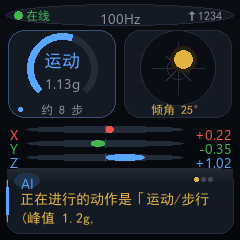
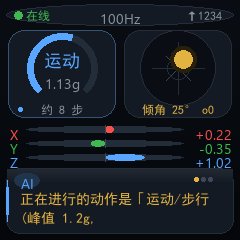
feat(device): 界面显示方向档位 oN，标定不再需要串口
真机标定 IMU 方向时卡住的原因：档位 oN 只能在串口日志里看到，屏幕上没有。
于是「长按 BOOT 循环换档直到方向正确」这件事必须先插电脑开串口，
用户按了也分不清自己在哪一档。

改法：倾角小字里带上档位（`倾角 29° o4`）。于是标定变成纯屏上操作：
平放 → 向右倾 → 看屏幕是否写「向右倾斜」→ 不对就长按换档 → 对了就停。
板端自己会算方向词，所以不依赖服务器。

顺带修 ui_preview.py 的一个真缺陷：它把倾角文案在 Python 里**重新实现**了一遍
（没读 ui.c），所以代码改了预览图不变——而它的注释还写着「不会出现代码改了
预览图还是旧的这种失真」。已把 oN 补上，并把那句过强的说明改成如实描述
（几何/配色确实从 ui.c 解析，文案是镜像的、必须同步改）。

顺带订正标定指南两处文档缺陷：
- P4 原文写「倒立，底边朝下」，可这与「顶边朝上」是同一个姿势、期望值却相反，
  自相矛盾；应为「顶边朝下」。
- P5/P6 的期望值按加速度计物理推算应互换（已标注待实测）。
- 记录 2026-09-23 真机标定的进展与未完成项（o0 与 o1 只差传感器焊在正面还是背面）。

Changed region(s): [[0.5833, 0.4375, 0.9042, 0.4958]]

diff --git a/tools/ui_preview.py b/tools/ui_preview.py
@@ -3,10 +3,15 @@
 """
 渲染开发板屏幕（240x240）的预览图，用于在没有硬件的情况下验证界面美观度与布局正确性。
 
-**单一事实来源**：本脚本不重新定义任何尺寸或颜色，而是**解析 `device/main/ui.c` 里的
-`UI_*` 宏**（几何）与 `UI_C_*` 宏（配色），连活动词的语义色都从 `ACT_COLOR` / `ACT_WORD`
-两个数组里抠出来。所以改 ui.c 的布局常量后重跑本脚本，预览图会自动跟着变——
-不会出现「代码改了、预览图还是旧的」这种验证失真。
+**单一事实来源**（**仅限几何与配色**）：本脚本不重新定义任何尺寸或颜色，而是**解析
+`device/main/ui.c` 里的 `UI_*` 宏**（几何）与 `UI_C_*` 宏（配色），连活动词的语义色都从
+`ACT_COLOR` / `ACT_WORD` 两个数组里抠出来。所以改 ui.c 的布局常量后重跑本脚本，
+预览图会自动跟着变。
+
+⚠ **但文案不在此列**：像倾角那行 `倾角 29° o4` 是**镜像**实现的（ui.c 里是 snprintf
+的格式串，没法直接解析）。改 ui.c 的文案时**必须同步改这里**，否则会出现
+「代码改了、预览图还是旧的」这种失真 —— 2026-09-23 真踩过（加了 oN 但预览图没变，
+差点以为改没生效）。
 
 另外这里把 `reply_page()` 的分页算法**照搬**了一份（同样 30 列、中文记 2 列），
 所以预览图上的 AI 回复就是板子上真正会显示的那一页。
@@ -390,13 +395,20 @@ class Renderer:
         circle(d, bcx + ox, bcy + oy, br + 4, fill=tuple(int(c * 0.18) for c in ball_c))
         circle(d, bcx + ox, bcy + oy, br, fill=ball_c)
 
+        # ⚠ 这三行文案是**从 ui.c 镜像过来的**（ui.c 里是 snprintf 的格式串，
+        #    没法直接解析）。**改 ui.c 的倾角文案时必须同步改这里**，
+        #    否则预览图会显示旧文案 —— 本脚本开头那句"不会失真"只对
+        #    几何/配色（UI_* / UI_C_* 宏）成立，对文案不成立。
+        #    2026-09-23：加了方向档位 oN（标定时屏幕上要能看见自己在哪一档）。
+        ori = st.get("orient", 0)
         if st["mag"] < 0.05:
-            tilt = "无读数"
+            tilt = "无读数 o%d" % ori
         elif st["mag"] < 0.35:
-            tilt = "失重"
+            tilt = "失重 o%d" % ori
         else:
             import math
-            tilt = "倾角 %d°" % round(math.degrees(math.acos(min(1.0, abs(st["z"]) / st["mag"]))))
+            tilt = "倾角 %d° o%d" % (
+                round(math.degrees(math.acos(min(1.0, abs(st["z"]) / st["mag"])))), ori)
         # 倾角文字跟随球的语义色（与板端 s_lbl_tilt 同步）
         tilt_c = (C["FAINT"] if ball_c == C["FAINT"] else
                   C["GREEN"] if ball_c == C["GREEN"] else

diff --git a/device/main/ui.c b/device/main/ui.c
@@ -51,6 +51,7 @@
 #include "esp_log.h"
 #include "lvgl.h"
 
+#include "accel_input.h"    /* accel_input_get_orientation()：倾角小字里要显示档位 oN */
 #include "provisioning.h"
 #include "transport.h"
 #include "wifi_link.h"
@@ -811,19 +812,25 @@ static void ui_timer_cb(lv_timer_t *timer)
         lv_obj_set_style_text_color(s_lbl_tilt, lv_color_hex(tilt_c), 0);
     }
 
+    /* 倾角小字里**带上当前方向档位 `oN`**。
+     * 为什么必须显示：档位只能在串口日志里看到，于是"长按 BOOT 校准方向"这件事
+     * 变成了必须插着电脑开串口才能做 —— 2026-09-23 真机标定时就是这么卡住的
+     * （屏幕上没有 oN，用户按了也分不清自己在哪一档）。
+     * 显示出来之后，标定就是纯屏上操作：长按换档 → 看方向对不对 → 对了就停。 */
+    const int ori = accel_input_get_orientation();
     if (mag < 0.05f) {
-        lv_label_set_text(s_lbl_tilt, "无读数");
+        snprintf(buf, sizeof(buf), "无读数 o%d", ori);
     } else if (mag < 0.35f) {
-        lv_label_set_text(s_lbl_tilt, "失重");
+        snprintf(buf, sizeof(buf), "失重 o%d", ori);
     } else {
         float c = fabsf(st.z_g) / mag;
         if (c > 1.0f) {
             c = 1.0f;
         }
         int deg = (int)(acosf(c) * 57.29578f + 0.5f);
-        snprintf(buf, sizeof(buf), "倾角 %d°", deg);
-        lv_label_set_text(s_lbl_tilt, buf);
+        snprintf(buf, sizeof(buf), "倾角 %d° o%d", deg, ori);
     }
+    lv_label_set_text(s_lbl_tilt, buf);
 
     /* ---------- 三轴对称条 ---------- */
     float axis[3] = {st.x_g, st.y_g, st.z_g};

diff --git a/tools/imu_calibration_guide.md b/tools/imu_calibration_guide.md
@@ -9,9 +9,8 @@
 imu: src=<芯片> o=<方向档位> raw[x y z] scr[x y] |a|=幅值
 ```
 
-> ⚠ **档位和芯片名只能从串口日志读，屏幕上没有。**
-> 界面重做后的新 UI 只显示 x/y/z、活动状态、服务器/命令状态，**不再显示 `oN` 和芯片名**
-> （旧 UI 会显示，别照旧印象去找）。所以标定时**必须开着串口监视**。
+> ✅ **2026-09-23 起，档位 `oN` 会显示在板端屏幕上**（倾角小字里，形如 `倾角 29° o4`）。
+> 所以标定**不再必须开串口** —— 见下面「若方向不一致」。芯片名仍然只在串口日志里。
 
 ## 判读：每个数字从哪来
 
@@ -30,9 +29,29 @@ imu: src=<芯片> o=<方向档位> raw[x y z] scr[x y] |a|=幅值
 | P1 | 屏幕朝上平放在桌面 | `raw` 的 z≈+1.00，`scr` x≈0, y≈0 | 基准姿态、量程（\|a\|≈1.00） |
 | P2 | 屏幕朝下扣在桌面（翻转 180°） | `raw` 的 z≈-1.00 | Z 轴满程反向 |
 | P3 | 板子立起来，**顶边朝上**（正常阅读方向） | `scr` y≈-1.00 | Y 负向 |
-| P4 | 板子倒立，**底边朝下** | `scr` y≈+1.00 | Y 正向 |
-| P5 | 板子**右边朝地**立起 | `scr` x≈+1.00 | X 正向 |
-| P6 | 板子**左边朝地**立起 | `scr` x≈-1.00 | X 负向 |
+| P4 | 板子倒置，**顶边朝下**（与 P3 上下颠倒） | `scr` y≈+1.00 | Y 正向 |
+| P5 | 板子**右边朝地**立起（顶边指向右） | `scr` x≈+1.00 ⚠ 见下 | X 正向 |
+| P6 | 板子**左边朝地**立起（顶边指向左） | `scr` x≈-1.00 ⚠ 见下 | X 负向 |
+
+> ⚠ **P4 的原文写的是"底边朝下"，那是错的**（"顶边朝上"和"底边朝下"是同一个姿势，
+> 但期望值却相反，自相矛盾）。正确说法是"**顶边朝下**"，与 P3 上下颠倒。
+> 2026-09-23 订正。
+>
+> ⚠ **P5/P6 的期望值待实测确认**。按加速度计物理（静止时读到的是"向上"方向的 1g，
+> P1 的 `raw z≈+1.00` 就是这个约定的体现）：右边朝地 → 板子的"上"指向左边 → `scr x≈-1.00`，
+> 与表里写的 **正好相反**。也就是说 P5/P6 这两行的期望值很可能**互相写反了**。
+> 在真机上摆一遍就能定论 —— 把实测值填进下面的记录表，然后订正本表。
+
+## 实测记录（真机摆一遍填这里）
+
+> 每摆一个姿势停 3 秒，抄一行 `imu:` 日志。同一姿势下**档位换一次就重抄一遍**，
+> 直到六个姿势全部吻合 —— 那个档位就是这块板子的正确值。
+
+| 档位 `o=` | P1 raw z | P2 raw z | P3 scr y | P4 scr y | P5 scr x | P6 scr x | 判定 |
+|---|---|---|---|---|---|---|---|
+| 0 | | | | | | | |
+| 1 | | | | | | | |
+| … | | | | | | | |
 
 判读规则：
 - 每个姿态 \|a\| 都应在 0.95–1.05 之间 → 灵敏度（LSB/g）正确
@@ -53,15 +72,47 @@ imu: src=<芯片> o=<方向档位> raw[x y z] scr[x y] |a|=幅值
 - 想确认长按是否生效：**LED 两下短闪** = 档位已切换（单击只有一下，能区分）
 - 万一误进配网：等它超时退出，或按屏幕提示操作后重来
 
-## 若方向不一致
+## 若方向不一致（**现在可以纯屏上做，不用电脑**）
 
-1. 不动固件：**长按 BOOT** 循环 orientation 档位 0..7。
-   每次长按看两处确认：
-   - 串口日志里的 `o=<新档位>`（下一行 `imu:` 就会变）
-   - 另一行 `tilt calibration -> orientation <N> (long-press BOOT to cycle)`
-2. 反复长按试到**六姿态全部吻合**的那个档位 → 该值已存 NVS，掉电永久生效。
-3. 根治：把找到的值写回 `ACCEL_ORIENT_DEFAULT`（`device/main/accel_input.c:31`，当前是 4）
-   并重烧，新板免校准。
+> 2026-09-23 起，板端界面在倾角小字里显示**当前档位 `oN`**（形如 `倾角 29° o4`）。
+> 在此之前档位只能从串口日志读，于是"长按 BOOT 校准方向"这件事必须先插电脑开串口 ——
+> 真机标定时就是卡在这里。现在标定是**纯屏上操作**：
+
+1. 把板子**平放**在桌上（屏幕朝上），**向右侧倾约 30°**。
+2. 看板子屏幕左下角的**方向文字**（板端自己算的，不依赖服务器）：
+   - 应该写「**向右倾斜**」
+   - 如果写的是「向左 / 向上 / 向下」→ 方向不对
+3. **长按 BOOT** 换一档（LED 闪两下 = 切换成功）。屏幕上的 `oN` 会变。
+4. 重复 1–3，直到「向右倾斜」正确。再顺手验「向上倾斜」（把顶边朝你怀里倒）。
+5. 找到的档位**已自动存 NVS**，掉电永久生效，不用重编译。
+
+**为什么"平放 + 右侧倾"是最省事的判据**：平放时重力在 z 轴上，只把左右倾角映射到 x 正负，
+所以它同时能验出"x 要不要取反"和"x/y 要不要互换"两件事，一个动作就够。
+
+**想彻底免校准**：把找到的值写回 `ACCEL_ORIENT_DEFAULT`（`device/main/accel_input.c:31`）
+并重烧，之后新板子出厂就是对的。
+
+### 备用：看串口日志（老办法，仍然有效）
+
+固件每秒打印一行 `imu: src=<芯片> o=<档位> raw[x y z] scr[x y] |a|=幅值`。
+判读见上面「判读」表。**注意**：实测这行大约 **11 秒**才出一条（不是 1 秒），
+所以每个姿势要停够 20 秒以上才保证采到。
+
+### 2026-09-23 真机标定记录（未完成，留待续）
+
+- 板子：ESP32-S3-EYE + **后加的 SC7A20**（`BSP_CAPS_IMU 0`，官方 BSP 里没有这颗，
+  所以**任何文档都查不到它的朝向**，只能实测）。
+- 已确证：**立起来、顶边朝上** → `raw[+0.000 −1.016 +0.031]`（多轮串口 + 遥测落盘交叉验证）。
+  屏幕系 +y 向下，所以这个姿势**应当**得到 `scr y ≈ −1.00`。
+- 由此可推出：`o0`–`o7` 里**只有 `o0` 和 `o1` 满足**（这两个只差"屏幕 x 要不要取反"，
+  在该姿势下表现相同）。其余六个都会把重力算到 x 轴或反号。
+- 物理约束：LGA 封装的加速度计平焊在 PCB 上，**z 轴必然垂直于板面**。
+  所以档位只能是**纯平面旋转**（`o0`/`o3`/`o5`/`o6`），带 x/y 互换的四个是镜像、物理上不成立。
+  结合上一条 ⇒ **`o0` 或 `o1`，二者只差传感器焊在正面还是背面。**
+- **未完成的最后一步**：用"平放（看 Z 的符号）"或"从 P3 顺时针转 90°（看 Y）"区分 `o0` / `o1`。
+  当时的读数一直是立着的姿态（`raw z ≈ 0.03`），没采到平放数据，所以没定论。
+- 期间发现的两处文档缺陷已订正：P4 原文"倒立，底边朝下"自相矛盾（应为"顶边朝下"）；
+  P5/P6 的期望值按物理推算应互换。
 
 ## 若读数异常
 
